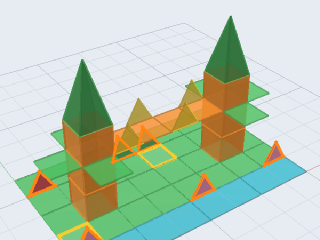
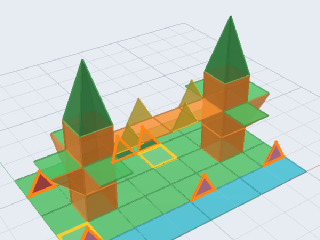
fix(content): rainforest_canopy_01 树冠平台加板根斜撑, strict 抖动 50/50 全绿 —— strict 档 D4+ 首巡 (PHYSICS_RULES.md R9 节) 抓出的零裕量外挑: 六片树冠平台单片平挑树腰 (名义力矩 15 贴 strict 抗弯预算 17.5), 注入 ±1.5mm/±2° 后 3/50 轮在第 11 步 cantilever_overload (18.6 > 17.5); 按报错文案建议每片平台配一根直角三角形板根斜撑 (竖直角边吸树身竖直磁力边 z [1,2], 水平直角边吸平台侧边), 平台-斜撑-树身成环, 剪断

Changed region(s): [[0.1562, 0.7, 0.3125, 0.8167], [0.75, 0.3792, 0.8438, 0.525], [0.1562, 0.5542, 0.2188, 0.6708]]

diff --git a/magtile-studio/tools/generate_rainforest_canopy.py b/magtile-studio/tools/generate_rainforest_canopy.py
@@ -3,26 +3,33 @@
 
 自然世界主题: 全库第一座雨林树冠天桥 —— 青色小河穿过绿色
 林地, 两株三层箱式巨树隔空相望: 树腰 (z=2) 各探出三片树冠
-平台, 一条四板天桥横跨两树之间 (两端整边吸树身, 剪断任一端
-仍经另一株回到地面), 桥面黄色护栏对角守望; 树身继续拔高一层,
-双双戴上瘦高四坡绿冠 (树尖 4.94); 林地四朵花冠立拼缝、两株
-蕨苗外倾伸展 —— 走上天桥, 雨林在脚下沙沙作响!
+平台 (每片配一根板根斜撑成环), 一条四板天桥横跨两树之间
+(两端整边吸树身, 剪断任一端仍经另一株回到地面), 桥面黄色
+护栏对角守望; 树身继续拔高一层, 双双戴上瘦高四坡绿冠 (树尖
+4.94); 林地四朵花冠立拼缝、两株蕨苗外倾伸展 —— 走上天桥,
+雨林在脚下沙沙作响!
 
 结构总览 (世界单位: 1.0 = 正方形磁力片边长):
   - 小河: 青色长板 x4 (y [0,1])                               4 片
   - 林地: 绿色方板 x24 + 长板 x4 (y [1,5])                   28 片
   - 巨树 x2 (x [1,2] / [6,7], y [2,3]): 三层箱式树身 x12
     + 瘦高四坡树冠 x4                                     2x16 片
-  - 树冠平台: 每树 3 片绿板平挑树腰 (z=2)                     6 片
+  - 树冠平台: 每树 3 片绿板平挑树腰 (z=2)
+    + 3 片直角三角形板根斜撑                              2x6 片
   - 天桥: 桥板 x4 (z=2, 两端吸树身) + 护栏等边 x4             8 片
   - 花冠等边 x4 + 蕨苗外倾等边 x2                             6 片
-  合计 84 片, 18 个教程步骤, 4 种磁力片形状 (全部 CORE-9 之内)。
+  合计 90 片, 18 个教程步骤, 5 种磁力片形状 (全部 CORE-9 之内)。
 
-物理规则要点 (通过 R1~R8 全部校验, strict 档同样全绿):
+物理规则要点 (通过 R1~R8 全部校验, strict 档与 R9 抖动仿真
+--profile strict --jitter 50 同样全绿):
   - 树身三层箱式闭环 (四角竖边互吸), 天桥两端整边吸两株
     树身 —— 树-桥-树连成大环, 剪断任一端桥仍不塌;
-  - 树冠平台单片平挑 (力矩 15 <= strict 17.5), 各自独立
-    吸一条树腰铰链, 互不串联 —— 没有连锁悬挑;
+  - 树冠平台单片平挑树腰铰链, 每片配一根直角三角形板根
+    斜撑 (竖直角边吸树身竖直磁力边, 水平直角边吸平台侧边):
+    平台-斜撑-树身成环, 剪断树腰铰链后平台仍有支撑路径,
+    悬臂力矩分析自然消失 —— 名义力矩 15 贴 strict 预算 17.5
+    的零裕量外挑经此加固, ±1.5mm/±2° 抖动 50/50 轮全绿
+    (docs/PHYSICS_RULES.md R9 节 strict 巡检记录的处置);
   - 第三层树身与平台/桥板共享树腰铰链线但互不重叠,
     四坡树冠四棱互吸自锁; 花冠/护栏重心正压铰链 (力矩 0);
   - 蕨苗底边吸林地拼缝外倾 30 度 (力矩 1.9)。
@@ -69,7 +76,11 @@ CROWN_W = b.hat4("crown_w", TOWERS[0], 2, 3.0, LEAF)
 CROWN_E = b.hat4("crown_e", TOWERS[1], 2, 3.0, LEAF)
 
 # =================================================================
-# 3. 树冠平台 (z=2): 西树 北/西/南 三片, 东树 北/东/南 三片
+# 3. 树冠平台 (z=2): 西树 北/西/南 三片, 东树 北/东/南 三片;
+#    每片平台配一根直角三角形板根斜撑 —— 竖直角边吸树身竖直
+#    磁力边 (z [1,2]), 水平直角边吸平台侧边: 平台-斜撑-树身
+#    成环, 树腰铰链剪断后平台仍有支撑路径, 单边平挑的悬臂
+#    力矩分析自然消失 (R9 抖动零裕量加固, PHYSICS_RULES.md R9)
 # =================================================================
 b.flat("lf_w_n", 1, 3, 2.0, LEAF)
 b.flat("lf_w_w", 0, 2, 2.0, LEAF)
@@ -77,6 +88,18 @@ b.flat("lf_w_s", 1, 1, 2.0, LEAF)
 b.flat("lf_e_n", 6, 3, 2.0, LEAF)
 b.flat("lf_e_e", 7, 2, 2.0, LEAF)
 b.flat("lf_e_s", 6, 1, 2.0, LEAF)
+b.place_tri("bc_w_n", "right_triangle",
+            (1.0, 3.0, 2.0), (1.0, 4.0, 2.0), (1.0, 3.0, 1.0), TRUNK)
+b.place_tri("bc_w_w", "right_triangle",
+            (1.0, 2.0, 2.0), (0.0, 2.0, 2.0), (1.0, 2.0, 1.0), TRUNK)
+b.place_tri("bc_w_s", "right_triangle",
+            (1.0, 2.0, 2.0), (1.0, 1.0, 2.0), (1.0, 2.0, 1.0), TRUNK)
+b.place_tri("bc_e_n", "right_triangle",
+            (7.0, 3.0, 2.0), (7.0, 4.0, 2.0), (7.0, 3.0, 1.0), TRUNK)
+b.place_tri("bc_e_e", "right_triangle",
+            (7.0, 2.0, 2.0), (8.0, 2.0, 2.0), (7.0, 2.0, 1.0), TRUNK)
+b.place_tri("bc_e_s", "right_triangle",
+            (7.0, 2.0, 2.0), (7.0, 1.0, 2.0), (7.0, 2.0, 1.0), TRUNK)
 
 # =================================================================
 # 4. 天桥 (z=2, x [2,6]): 四板桥面 + 四片护栏
@@ -157,16 +180,16 @@ b.step(
     tip="东西两树同高, 树腰铰链线在同一平面。",
 )
 b.step(
-    "探西树树冠平台: 北/西/南三片绿板平挑树腰。",
-    ["lf_w_n", "lf_w_w", "lf_w_s"],
+    "探西树树冠平台: 北/西/南三片绿板平挑树腰, 各配一根板根斜撑。",
+    ["lf_w_n", "lf_w_w", "lf_w_s", "bc_w_n", "bc_w_w", "bc_w_s"],
     highlight=["tk1_n_1", "tk1_w_1"],
-    tip="每片平台独吸一条树腰铰链 (力矩 15), 互不串联。",
+    tip="斜撑两条直角边分别吸树身竖边与平台侧边 —— 平台-斜撑-树身成环, 平挑稳如板根。",
 )
 b.step(
-    "探东树树冠平台: 北/东/南三片。",
-    ["lf_e_n", "lf_e_e", "lf_e_s"],
+    "探东树树冠平台: 北/东/南三片, 同样各配一根板根斜撑。",
+    ["lf_e_n", "lf_e_e", "lf_e_s", "bc_e_n", "bc_e_e", "bc_e_s"],
     highlight=["tk6_n_1", "tk6_e_1"],
-    tip="东面平台朝林外 —— 观鸟的最佳机位。",
+    tip="东面平台朝林外 —— 观鸟的最佳机位, 板根斜撑托得稳稳的。",
 )
 b.step(
     "架天桥: 4 片橙色桥板从西树接到东树。",
@@ -217,14 +240,15 @@ b.finalize(
     name_en="Rainforest Canopy Walk 01",
     description=(
         "全库第一座雨林树冠天桥: 两株三层箱式巨树隔空相望, 树腰"
-        " (z=2) 各探三片树冠平台 (单片平挑力矩 15, 互不串联), 四板"
-        "天桥两端整边吸树身 —— 树-桥-树连成大环, 剪断任一端桥仍"
-        "不塌; 树身拔高至第三层双双戴瘦高四坡绿冠 (树尖 4.94),"
-        " 桥面黄色护栏对角守望; 青色小河畔四朵花冠立拼缝, 两株"
-        "蕨苗外倾伸展 —— 走上天桥, 雨林在脚下沙沙作响!"
+        " (z=2) 各探三片树冠平台, 每片配一根直角三角形板根斜撑"
+        " —— 平台-斜撑-树身成环, 平挑经得起毫米级放置误差 (R9 抖"
+        "动仿真全绿); 四板天桥两端整边吸树身 —— 树-桥-树连成大环,"
+        " 剪断任一端桥仍不塌; 树身拔高至第三层双双戴瘦高四坡绿冠"
+        " (树尖 4.94), 桥面黄色护栏对角守望; 青色小河畔四朵花冠立"
+        "拼缝, 两株蕨苗外倾伸展 —— 走上天桥, 雨林在脚下沙沙作响!"
     ),
     difficulty=4,
     tags=["自然", "雨林", "树屋", "天桥", "进阶"],
-    min_pieces=82,
+    min_pieces=88,
     min_steps=18,
 )
